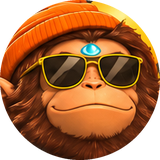
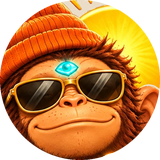
Rockstar Coco: the course's star on the landing page, top bar and finish
Cassidy's new rockstar Coco, cut out of the checkerboard the image
generator drew in (scripts/cutout-checkerboard.py). He stands beside the
title on wide screens and under the buttons on phones, his face is the
top-bar badge, and he joins the completion screen.

diff --git a/src/components/Hero.tsx b/src/components/Hero.tsx
@@ -3,7 +3,7 @@ import { lessons } from '../data/lessons';
 import { href } from '../lib/route';
 import { hasStarted, isCourseComplete, resumeLesson } from '../lib/progress';
 import { useProgress } from '../lib/useProgress';
-import { pad2 } from '../lib/media';
+import { mediaUrl, pad2 } from '../lib/media';
 import { FlowLines } from './FlowLines';
 import type { CSSProperties, Ref } from 'react';
 
@@ -65,6 +65,18 @@ export function Hero({ headingRef }: { headingRef: Ref<HTMLHeadingElement> }) {
             <li key={f}>{f}</li>
           ))}
         </ul>
+        <img
+          className="hero__star rise"
+          style={delay(200)}
+          src={mediaUrl('coco-rockstar.webp')}
+          srcSet={`${mediaUrl('coco-rockstar-small.webp')} 520w, ${mediaUrl('coco-rockstar.webp')} 900w`}
+          sizes="(min-width: 960px) 40vw, 80vw"
+          alt="Coco, the course's mascot: a chill monkey in an orange beanie and sunglasses, sitting cross-legged on a cloud with a golden microphone, making a peace sign"
+          width={900}
+          height={1119}
+          decoding="async"
+          fetchPriority="high"
+        />
       </div>
       <FlowLines className="hero__lines" />
     </header>

diff --git a/src/styles/course.css b/src/styles/course.css
@@ -465,6 +465,33 @@ button {
   background: var(--clay);
 }
 
+/* Rockstar Coco: beside the title on wide screens, under the buttons on phones. */
+.hero__star {
+  display: block;
+  width: min(78%, 360px);
+  height: auto;
+  margin: 44px auto 0;
+  filter: drop-shadow(0 18px 30px rgba(42, 34, 27, 0.22));
+}
+
+@media (min-width: 960px) {
+  .hero__star {
+    position: absolute;
+    right: 0;
+    top: 0;
+    bottom: 0;
+    margin: auto 0;
+    width: auto;
+    height: min(74vh, 600px);
+  }
+  .hero__inner > :not(.hero__star) {
+    max-width: calc(100% - min(74vh, 600px) * 0.8);
+  }
+  .hero__title-flow {
+    font-size: clamp(3.6rem, 1rem + 8.4vw, 9rem);
+  }
+}
+
 .hero__lines {
   position: absolute;
   left: 0;
@@ -1389,6 +1416,13 @@ button {
   display: grid;
   justify-items: center;
   gap: 28px;
+}
+
+.completion__star {
+  width: clamp(150px, 20vw, 220px);
+  height: auto;
+  margin-bottom: -6px;
+  filter: drop-shadow(0 14px 24px rgba(42, 34, 27, 0.2));
 }
 
 .completion__title {

diff --git a/src/components/CompletionScreen.tsx b/src/components/CompletionScreen.tsx
@@ -3,7 +3,7 @@ import { lessons } from '../data/lessons';
 import { href } from '../lib/route';
 import { isCourseComplete, resumeLesson } from '../lib/progress';
 import { usePageFocus, useProgress } from '../lib/useProgress';
-import { pad2 } from '../lib/media';
+import { mediaUrl, pad2 } from '../lib/media';
 import { FlowLines } from './FlowLines';
 
 export function CompletionScreen() {
@@ -35,6 +35,14 @@ export function CompletionScreen() {
     <main id="main" className="completion page-enter">
       <FlowLines className="completion__lines" />
       <div className="completion__inner">
+        <img
+          className="completion__star rise"
+          src={mediaUrl('coco-rockstar-small.webp')}
+          alt=""
+          width={520}
+          height={647}
+          decoding="async"
+        />
         <p className="eyebrow rise">Seven of seven</p>
         <h1 className="completion__title rise" ref={heading} tabIndex={-1}>
           {course.completion.heading}

diff --git a/scripts/cutout-checkerboard.py b/scripts/cutout-checkerboard.py
@@ -1,0 +1,113 @@
+"""Removes a transparency checkerboard that an image generator drew into the picture.
+
+Usage: python scripts/cutout-checkerboard.py in.webp out.png preview.png [x0,y0,x1,y1 ...]
+The optional boxes mark glow painted over the checkerboard (e.g. music notes); inside them only
+solid colour is kept. Needs Pillow and numpy. Used for rockstar Coco (public/coco-rockstar*.webp).
+"""
+import sys
+import numpy as np
+from PIL import Image, ImageFilter
+
+src, out, preview = sys.argv[1:4]
+# Optional boxes 'x0,y0,x1,y1' where pale glow over checker is dropped, keeping only solid colour.
+GLOW_BOXES = [tuple(map(int, b.split(','))) for b in sys.argv[4:]]
+im = Image.open(src).convert('RGB')
+a = np.asarray(im).astype(np.int16)
+mx, mn = a.max(axis=2), a.min(axis=2)
+bglike = (mx - mn < 16) & (mn > 196)
+
+def dilate(m):
+    d = m.copy()
+    d[1:] |= m[:-1]; d[:-1] |= m[1:]; d[:, 1:] |= m[:, :-1]; d[:, :-1] |= m[:, 1:]
+    return d
+
+seed = np.zeros_like(bglike)
+seed[0, :] = bglike[0, :]; seed[-1, :] = bglike[-1, :]; seed[:, 0] = bglike[:, 0]; seed[:, -1] = bglike[:, -1]
+while True:
+    nxt = dilate(seed) & bglike
+    if nxt.sum() == seed.sum():
+        break
+    seed = nxt
+bg = seed
+
+def erode(m):
+    e = m.copy()
+    e[1:] &= m[:-1]; e[:-1] &= m[1:]; e[:, 1:] &= m[:, :-1]; e[:, :-1] &= m[1:] if False else m[:, 1:]
+    return e
+
+def reconstruct(marker, mask):
+    while True:
+        nxt = dilate(marker) & mask
+        if nxt.sum() == marker.sum():
+            return nxt
+        marker = nxt
+
+# Enclosed pockets (inside the bolts, between swirls): strictly neutral areas big enough
+# to survive a 5px erosion. Thin highlights and tinted cloud whites don't qualify.
+neutral = (mx - mn < 8) & (mn > 196)
+core = neutral
+for _ in range(5):
+    core = erode(core)
+bg = bg | reconstruct(core, neutral)
+# Soak up the thin light-grey fringe left by anti-aliasing: one ring of near-neutral, light pixels.
+fringe = dilate(bg) & ~bg & (mx - mn < 40) & (mn > 150)
+bg = bg | fringe
+# Glow painted over the checkerboard (pale yellow squares) and grey edge dots: pale pixels
+# that are not bluish (cloud whites are), grown out from the background a limited distance.
+r, g, b = a[..., 0], a[..., 1], a[..., 2]
+pale = (mn > 168) & (mx - mn < 110) & (b <= g + 4)
+grown = bg.copy()
+for _ in range(28):
+    grown = (dilate(grown) & pale) | grown
+bg = grown
+
+# Glow-tinted checker trapped inside swirls: pale, non-bluish pockets close to the
+# background and much smaller than the sun's bright centre.
+from collections import deque
+cand = (mn > 190) & (mx - mn < 48) & (b <= g + 4) & ~bg
+near = bg.copy()
+for _ in range(40):
+    near = dilate(near)
+H, W = cand.shape
+seen = np.zeros_like(cand)
+ys, xs = np.nonzero(cand & near)
+for y0, x0 in zip(ys, xs):
+    if seen[y0, x0]:
+        continue
+    comp = []; q = deque([(y0, x0)]); seen[y0, x0] = True
+    while q:
+        y, x = q.popleft(); comp.append((y, x))
+        if len(comp) > 9000:
+            break
+        for yy, xx in ((y + 1, x), (y - 1, x), (y, x + 1), (y, x - 1)):
+            if 0 <= yy < H and 0 <= xx < W and cand[yy, xx] and not seen[yy, xx]:
+                seen[yy, xx] = True; q.append((yy, xx))
+    if len(comp) <= 9000:
+        cy, cx = zip(*comp)
+        bg[list(cy), list(cx)] = True
+
+for x0, y0, x1, y1 in GLOW_BOXES:
+    sub = (mn > 150) & (mx - mn < 125) & (b <= g + 4)
+    region = np.zeros_like(bg); region[y0:y1, x0:x1] = True
+    bg = bg | (sub & region)
+
+# Drop tiny opaque specks floating in the background.
+solid = ~bg
+core = solid
+for _ in range(3):
+    core = erode(core)
+solid = reconstruct(core, solid)
+bg = ~solid
+alpha = np.where(bg, 0, 255).astype(np.uint8)
+am = Image.fromarray(alpha).filter(ImageFilter.GaussianBlur(0.7))
+rgba = im.convert('RGBA'); rgba.putalpha(am)
+bbox = am.point(lambda v: 255 if v > 8 else 0).getbbox()
+rgba = rgba.crop(bbox)
+rgba.save(out, optimize=True)
+# Check on dark and on paper to spot leftovers.
+w, h = rgba.size
+pv = Image.new('RGB', (w * 2 + 20, h), (29, 24, 20))
+pv.paste(Image.new('RGB', (w, h), (244, 237, 225)), (w + 20, 0))
+pv.paste(rgba, (0, 0), rgba); pv.paste(rgba, (w + 20, 0), rgba)
+pv.resize(((w * 2 + 20) // 2, h // 2), Image.LANCZOS).save(preview)
+print('bbox', bbox, 'removed', int(bg.sum()), 'of', bg.size)
